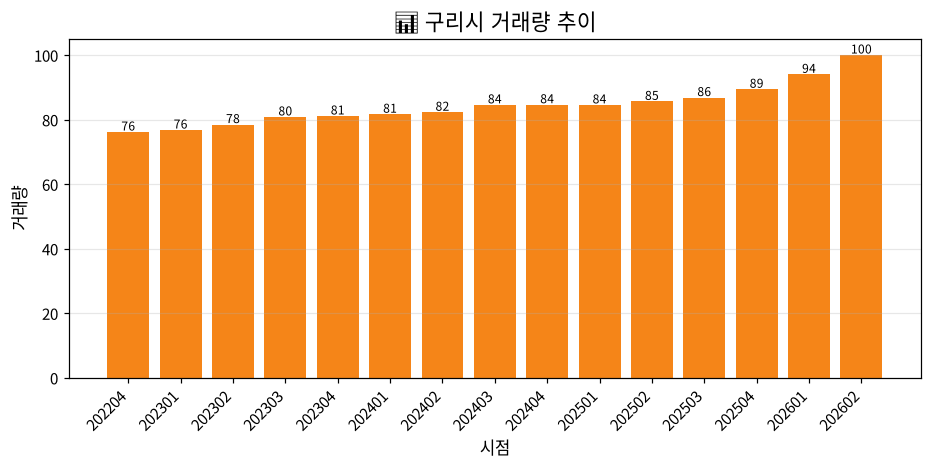
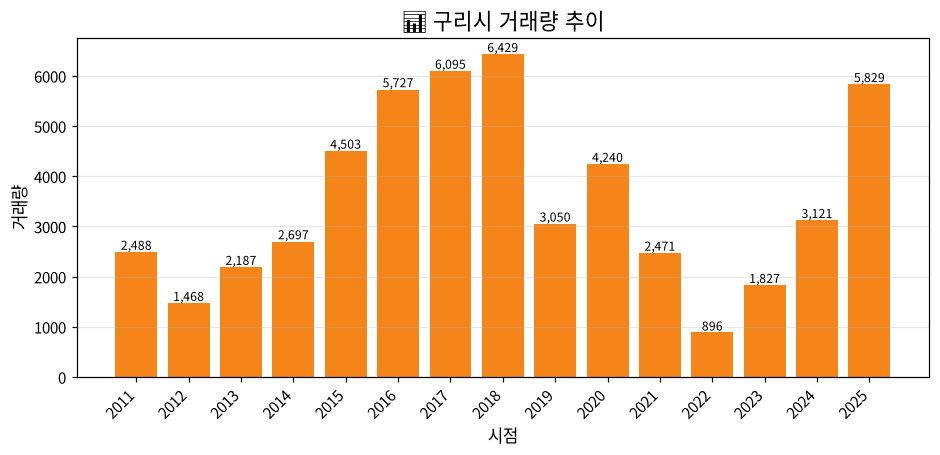
Auto-post: 🔥 동대문구 부동산 핫스팟 심층 분석

Changed region(s): [[0.0, 0.0923, 0.9957, 0.9846], [0.4045, 0.0, 0.6534, 0.0923]]

diff --git a/_posts/2026-10-08-동대문구-부동산-핫스팟-심층-분석.md b/_posts/2026-10-08-동대문구-부동산-핫스팟-심층-분석.md
@@ -1,0 +1,224 @@
+---
+layout: post
+title: "🔥 동대문구 부동산 핫스팟 심층 분석"
+date: 2026-10-08 07:14:48 +0900
+categories: 부동산 핫스팟
+---
+
+> **2026년 10월 08일 기준** 한국부동산원 R-ONE 데이터 분석
+
+## 📖 이번 주 핵심
+
+**동대문구**는 전국 **98개 지역 중 9위**의 핫스코어를 기록했습니다.
+이 글에서는 **동대문구의 강세 요인**을 파헤치고, **전국 상위 지역과 비교**합니다.
+
+---
+
+## 🏅 주요 수치
+
+| 지표 | 값 | 해석 |
+|---|---|---|
+| **핫스코어** | **71.6** | 🔥 매우 뜨거움 |
+| **최근값** | 100.00 | 시세 지수 |
+| **QoQ (전분기 대비)** | 4.55% | 단기 상승률 |
+| **YoY (전년 대비)** | 17.59% | 장기 상승률 |
+| **가속도** | 3.59%p | 최근 상승 가속도 |
+| **모멘텀** | 5개월 | 연속 상승 개월 |
+| **전국 순위** | **9위 / 98개** | 핫스코어 기준 |
+
+### 💡 핵심 요약
+
+- **동대문구**는 최근 **5개월 연속 상승** 중입니다.
+- 가속도 **3.59%p**로 상승세가 **강화**되고 있습니다.
+- QoQ **4.55%**, YoY **17.59%**로 **단기·장기 모두 상승세**를 보입니다.
+
+---
+
+## 📝 최근 12개월 추이
+
+![동대문구 12개월 추이](/real-estate-blog/assets/images/hotspot_history_동대문구.png)
+
+| 시점 | 값 | 전월 대비 |
+|---|---|---|
+| 202303 | 78.97 | - |
+| 202304 | 78.67 | 🔻 -0.38% |
+| 202401 | 78.82 | 🔺 +0.19% |
+| 202402 | 80.10 | 🔺 +1.63% |
+| 202403 | 82.97 | 🔺 +3.59% |
+| 202404 | 83.98 | 🔺 +1.22% |
+| 202501 | 83.69 | 🔻 -0.34% |
+| 202502 | 85.04 | 🔺 +1.61% |
+| 202503 | 87.04 | 🔺 +2.35% |
+| 202504 | 89.73 | 🔺 +3.09% |
+| 202601 | 95.65 | 🔺 +6.59% |
+| 202602 | 100.00 | 🔺 +4.55% |
+
+---
+
+## ⬆ 전국 핫스코어 Top 15
+
+![핫스코어 Top 15](/real-estate-blog/assets/images/hotspot_top15_동대문구.png)
+
+| 순위 | 지역 | 최근값 | QoQ(%) | YoY(%) | 가속도 | 핫스코어 | 상태 |
+|---|---|---|---|---|---|---|---|
+| 1 | **구리시** | 100.00 | 6.38 | 16.79 | 4.43 | **76.9** | 🔥 매우 뜨거움 |
+| 2 | **하남시** | 100.00 | 3.77 | 19.24 | 3.15 | **75.6** | 🔥 매우 뜨거움 |
+| 3 | **수지구** | 100.00 | 3.92 | 18.43 | 3.58 | **75.5** | 🔥 매우 뜨거움 |
+| 4 | **중원구** | 100.00 | 5.40 | 18.58 | 3.58 | **73.8** | 🔥 매우 뜨거움 |
+| 5 | **서대문구** | 100.00 | 3.74 | 15.59 | 1.71 | **73.6** | 🔥 매우 뜨거움 |
+| 6 | **수정구** | 100.00 | 2.74 | 18.21 | 2.17 | **73.3** | 🔥 매우 뜨거움 |
+| 7 | **화성시** | 100.00 | 5.84 | 9.30 | 3.57 | **72.7** | 🔥 매우 뜨거움 |
+| 8 | **성북구** | 100.00 | 4.46 | 16.22 | 3.38 | **72.1** | 🔥 매우 뜨거움 |
+| 9 | **동대문구** ⭐ | 100.00 | 4.55 | 17.59 | 3.59 | **71.6** | 🔥 매우 뜨거움 |
+| 10 | **동안구** | 100.00 | 3.19 | 17.79 | 1.81 | **71.4** | 🔥 매우 뜨거움 |
+| 11 | **강서구** | 100.00 | 2.63 | 13.79 | 2.36 | **70.4** | 🔥 매우 뜨거움 |
+| 12 | **광명시** | 100.00 | 3.46 | 21.11 | 3.46 | **70.0** | 🔥 매우 뜨거움 |
+| 13 | **성남시** | 100.00 | 2.06 | 24.35 | 0.36 | **69.0** | 🌶 뜨거움 |
+| 14 | **기흥구** | 100.00 | 4.60 | 10.29 | 2.95 | **69.0** | 🌶 뜨거움 |
+| 15 | **영등포구** | 100.00 | 2.73 | 19.41 | 0.44 | **68.9** | 🌶 뜨거움 |
+
+⭐ = 이 글의 주인공
+
+---
+
+## 🧐 동대문구 vs 상위 지역 비교
+
+| 지역 | QoQ(%) | YoY(%) | 가속도 | 모멘텀 | 핫스코어 |
+|---|---|---|---|---|---|
+| ⭐ **동대문구** | 4.55 | 17.59 | 3.59 | 5개월 | **71.6** |
+| 구리시 | 6.38 | 16.79 | 4.43 | 5개월 | 76.9 |
+| 하남시 | 3.77 | 19.24 | 3.15 | 9개월 | 75.6 |
+| 수지구 | 3.92 | 18.43 | 3.58 | 9개월 | 75.5 |
+| 중원구 | 5.40 | 18.58 | 3.58 | 5개월 | 73.8 |
+| 서대문구 | 3.74 | 15.59 | 1.71 | 10개월 | 73.6 |
+
+
+### 💡 동대문구의 상대적 위치
+
+- **QoQ 상승률**: 동대문구는 평균 대비 -0.09% 낮음
+- **가속도**: 동대문구의 가속도는 평균 대비 +0.30%p 높음
+- **모멘텀**: 동대문구는 **5개월 연속 상승** 중입니다.
+
+---
+
+## 🎓 인사이트
+
+### 🎯 이런 분들께 유용합니다
+
+- **동대문구** 또는 인근 지역 부동산 관심자
+- 수도권·지방 부동산 시세 비교 분석가
+- 부동산 정책·시장 동향 연구자
+
+### 📊 체크리스트
+
+- [ ] QoQ + YoY 모두 상승 중인가?
+- [ ] 가속도가 양수인가?
+- [ ] 모멘텀이 3개월 이상인가?
+- [ ] 거래량도 함께 증가하는가?
+
+### ⚠ 유의사항
+
+- 핫스코어는 **과거 데이터 기반**이며 미래를 보장하지 않습니다.
+- 시세 지수의 절대값이 아닌 **추세**를 보세요.
+- 거래량, 정책, 금리 등 추가 요인을 종합적으로 판단하세요.
+
+---
+
+*분석 기준: 가속도(30%) + QoQ(25%) + YoY(20%) + 모멘텀(15%) + 변동성(10%)*
+
+---
+
+## 🏢 동대문구 실제 거래 사례
+
+> 국토교통부 실거래가 공개시스템 기반 (최근 3개월)
+
+### 📊 요약 통계
+
+| 항목 | 값 |
+|---|---|
+| **총 거래건수** | 229건 |
+| **평균 거래가** | 99,314만원 |
+| **중위 거래가** | 99,000만원 |
+| **최고 거래가** | 208,500만원 |
+| **최저 거래가** | 8,500만원 |
+| **평균 평당가** | 4,556만원/평 |
+| **최근 거래월** | 202609 |
+
+### 🏆 거래 활발한 아파트 Top 10
+
+| 순위 | 아파트 | 동 | 거래건수 | 평균거래가(만원) | 평균평당가(만원) |
+|---|---|---|---|---|---|
+| 1 | **래미안크레시티** | 전농동 | 12건 | 177,500 | 7,166 |
+| 2 | **힐스테이트청계** | 답십리동 | 7건 | 156,000 | 8,521 |
+| 3 | **전농우성** | 전농동 | 7건 | 89,079 | 4,325 |
+| 4 | **래미안위브** | 답십리동 | 7건 | 171,500 | 7,048 |
+| 5 | **쌍용** | 이문동 | 6건 | 110,633 | 4,680 |
+| 6 | **한신아파트** | 제기동 | 6건 | 114,617 | 5,196 |
+| 7 | **전농SK** | 전농동 | 6건 | 120,500 | 4,964 |
+| 8 | **안암골벽산** | 제기동 | 5건 | 115,300 | 3,776 |
+| 9 | **장안현대** | 장안동 | 5건 | 94,300 | 3,267 |
+| 10 | **동답한신** | 답십리동 | 4건 | 52,925 | 4,641 |
+
+### 📋 최근 거래 상세 (Top 15)
+
+| 거래일 | 동 | 아파트 | 거래가(만원) | 면적(m²) | 층 | 평당가(만원) |
+|---|---|---|---|---|---|---|
+| 2026-09 | 장안동 | 장안삼성쉐르빌 | 88,000 | 122.6 | 14 | 2,373 |
+| 2026-09 | 이문동 | 현대 | 96,700 | 59.9 | 14 | 5,335 |
+| 2026-09 | 전농동 | 전농우성 | 95,000 | 84.8 | 2 | 3,702 |
+| 2026-09 | 용두동 | 롯데캐슬피렌체 | 36,500 | 30.4 | 4 | 3,969 |
+| 2026-09 | 장안동 | 장안뉴시티 | 8,500 | 17.6 | 9 | 1,594 |
+| 2026-09 | 장안동 | 삼현팰리체 | 65,000 | 68.0 | 8 | 3,158 |
+| 2026-09 | 휘경동 | 서울가든 | 68,000 | 85.9 | 7 | 2,616 |
+| 2026-09 | 장안동 | 형인휴아름101동 | 69,300 | 78.6 | 6 | 2,914 |
+| 2026-09 | 회기동 | 신현대 | 89,000 | 60.5 | 5 | 4,865 |
+| 2026-09 | 장안동 | 현대홈타운2차 | 103,000 | 85.0 | 4 | 4,007 |
+| 2026-09 | 전농동 | 전농우성 | 89,300 | 59.8 | 6 | 4,938 |
+| 2026-09 | 휘경동 | 휘경 | 40,000 | 69.7 | 4 | 1,897 |
+| 2026-09 | 답십리동 | 힐스테이트청계 | 165,000 | 59.8 | 26 | 9,120 |
+| 2026-09 | 신설동 | 신설동역자이르네 | 78,000 | 45.9 | 12 | 5,612 |
+| 2026-09 | 장안동 | 장안현대홈타운(336) | 144,000 | 112.8 | 19 | 4,221 |
+
+> ⚠ 실거래가는 신고 지연, 해제 거래 등으로 실제와 차이가 있을 수 있습니다.
+
+## 🧠 편집자 인사이트
+
+전년 대비 17.59%라는 가파른 상승률 속에 시장의 불안과 기대가 뒤엉켜 있습니다. 2026년 10월 8일 기준 동대문구의 전분기 대비(QoQ) 변동률은 4.55%를 기록했고, 가격 탄력성을 나타내는 가속도(3.59)와 모멘텀(5점 만점의 5) 모두 상단에 도달했습니다. 최근 집계된 실거래 229건의 평균 거래가는 9억 9,314만 원, 평당가는 4,556만 원으로 체급 자체가 달라진 모습입니다. 겉으로는 완벽한 과열 국면이지만, 실거래 최고가(20억 8,500만 원)와 최저가(8,500만 원)의 극단적인 격차는 지금 매수자들이 느끼는 조급한 심리를 여실히 드러냅니다.
+
+KTX가 오가는 교통 결절점인 청량리 역세권의 상징성과 주거 정비가 안착된 답십리뉴타운의 실거주 수요가 맞물리면서 매수 심리에 불을 지폈습니다. 서울 동북권의 핵심 인프라를 흡수하는 축으로 입지가 재평가되자, '지금 잡지 않으면 영영 기회를 놓칠 수 있다'는 공포감이 호가를 밀어 올렸습니다. 청량리 역세권을 중심으로 고가 랜드마크 단지들이 상단을 뚫어주는 동안, 주거 안정성을 찾는 매수세는 답십리뉴타운의 기형성된 인프라로 쏠렸고, 이러한 수요 분산이 지역 전체의 하방을 단단하게 받치는 지지대로 작용했습니다.
+
+통계 수치가 가리키는 지점은 명확합니다. 평균 거래가(9억 9,314만 원)와 중위 거래가(9억 9,000만 원)가 거의 일치한다는 사실은 특정 초고가 거래 몇 건이 만들어낸 착시가 아니라, 시장 참여자들의 심리적 가격 마지노선 자체가 이미 '10억 원 턱밑'으로 상향 평준화되었음을 뜻합니다. 가속도 3.59와 최고 모멘텀 5는 단기적인 관망세보다는 공격적인 추격 매수가 우세했음을 증명합니다. 
+
+앞으로의 흐름은 두 갈래로 나뉩니다.
+청량리 역세권과 답십리뉴타운을 잇는 상승 에너지가 외곽 노후 주거지까지 확산되며 평당 4,500만 원 선을 확고한 바닥으로 굳히는 시나리오가 있는 반면, 단기간 17%를 넘게 치솟은 가격 피로감과 최고 모멘텀에 도달한 지표의 되돌림 현상으로 인해 실거래 건수가 급감하며 9억 원대 후반에서 긴 숨고르기에 들어갈 가능성도 배제하기 어렵습니다.
+
+평균과 중위가격이 10억 원 선에 맞닿은 지금, 시장은 추가 베팅을 준비하고 있을까요, 아니면 과열의 정점에서 숨을 죽이고 있는 걸까요?
+
+
+---
+
+## 🏘 동대문구 지역 특성
+
+### 📍 위치
+서울 동부
+
+### 🚇 주요 역세권
+청량리역 (1호선/경의중앙/KTX), 회기역, 장한평역
+
+### 🏗 개발 호재
+청량리역세권 개발, 답십리뉴타운, 전농뉴타운
+
+### 🎓 학군
+보통 (경희대, 한국외대)
+
+### 💡 지역 특징
+청량리 역세권 개발 활발, 동대문 쇼핑몰 인접
+
+> ⚠ 개발 호재는 계획 단계이며, 실제 진행 여부와 시기는 변동될 수 있습니다.
+
+
+
+---
+
+*📊 데이터 출처: 한국부동산원 R-ONE Open API (reb.or.kr/r-one) · 국토교통부 실거래가 (rt.molit.go.kr)*
+*⚠ 본 글은 정보 제공 목적이며, 투자 권유가 아닙니다. 자세한 내용은 [면책 조항]({{ site.baseurl }}/disclaimer/)을 참고하세요.*
